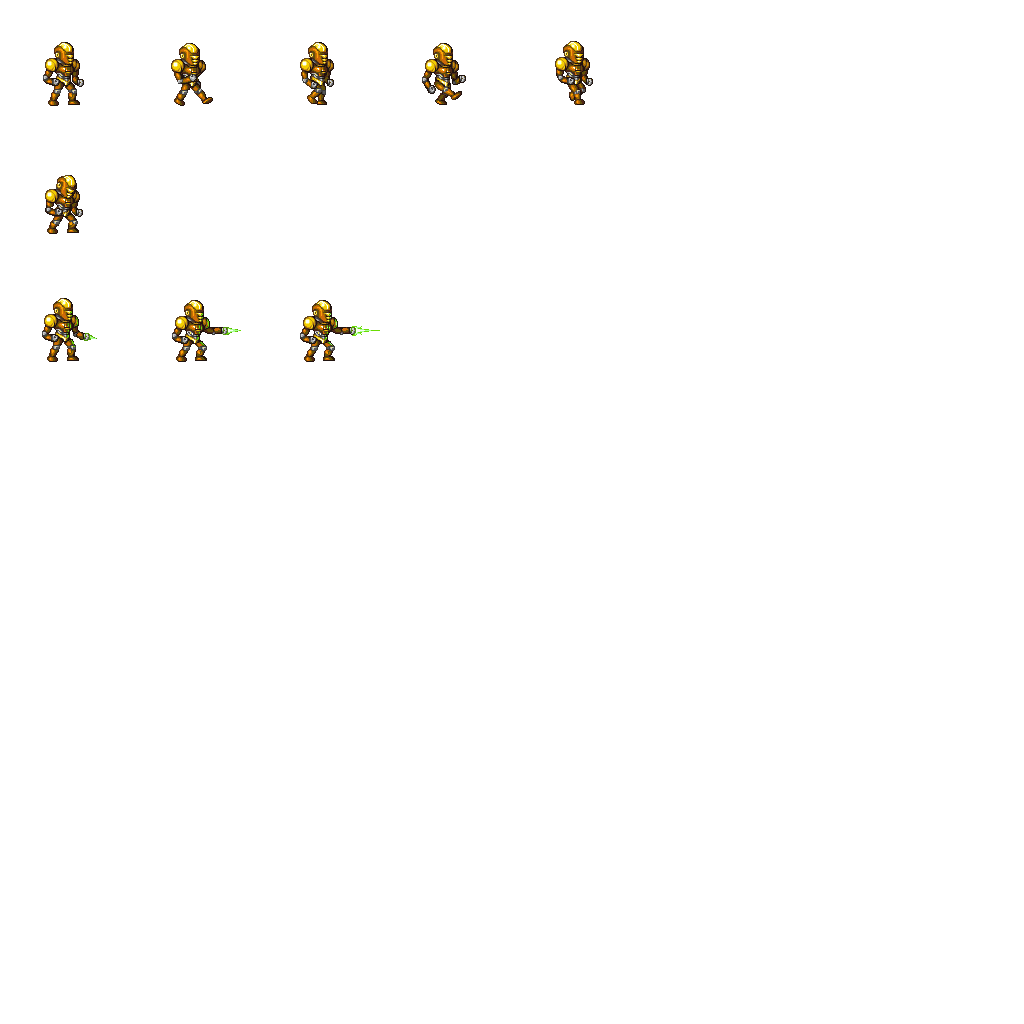
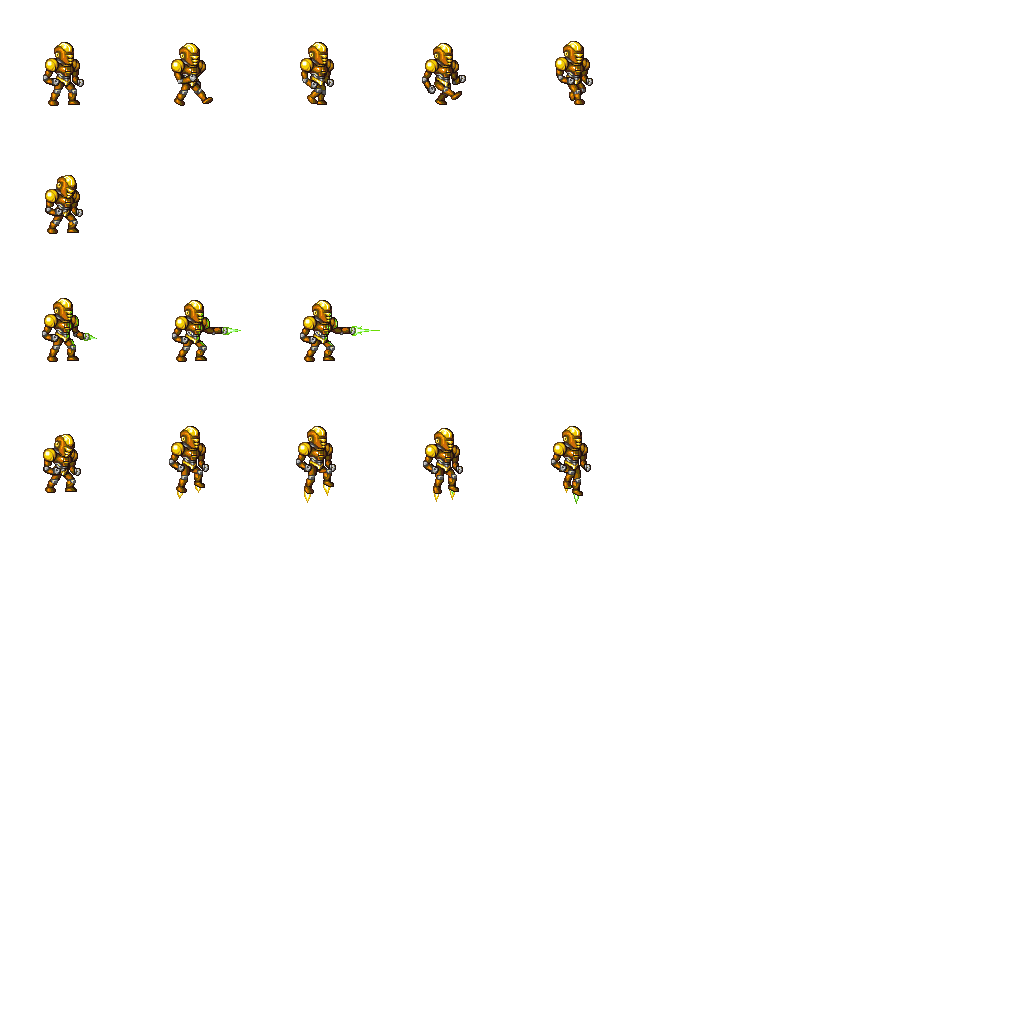
player jump animation

diff --git a/src/game/Player.cpp b/src/game/Player.cpp
@@ -48,8 +48,17 @@ Player::Player()
 	if (!image.LoadFromFile("images/xeon.png"))
 		printf("failed to load images/xeon.png\n");
 	this->setImage(image);
+	
+	width = 24;
+	height = 48;
+	xOrigin = width/2;
+	yOrigin = height;
+	setDrawOffset(64, 104);
+	setFrameSize(128, 128);
+	
 	//sprite.SetCenter(SPRITE_CENTER_X - xOrigin, SPRITE_CENTER_Y - yOrigin);
 	
+	/*
 	Animation* walkAnimation = new Animation(this->sprite);
 	walkAnimation->toDefaultXeonWalkAnimation();
 	this->animations["walk"] = walkAnimation;
@@ -61,6 +70,26 @@ Player::Player()
 	Animation* idleAnimation = new Animation(this->sprite);
 	idleAnimation->toDefaultXeonIdleAnimation();
 	this->animations["idle"] = idleAnimation;
+	*/
+	
+	Animation * tmp;
+	
+	tmp = addAnimation("walk");
+	tmp->addFrame(0, .2f);
+	tmp->addFrame(1, .2f);
+	tmp->addFrame(2, .2f);
+	tmp->addFrame(3, .2f);
+	tmp->setLoop(true);
+	
+	tmp = addAnimation("jump");
+	tmp->addFrame(24, 0.1f);
+	tmp->addFrame(25, 0.1f);
+	tmp->addFrame(26, 0.1f);
+	tmp->addFrame(27, 0.1f);
+	tmp->addFrame(28, 0.1f);
+	
+	tmp = addAnimation("idle");
+	tmp->addFrame(0, 0.2f);
 
 	init();
 }
@@ -78,11 +107,7 @@ void Player::init() {
 	pos_x = 64.0f;
 	pos_y = 0.0f;
 	facing_direction = FACING_RIGHT;
-	width = 24;
-	height = 48;
-	xOrigin = width/2;
-	yOrigin = height;
-	setDrawOffset(64, 104);
+
 	speed_x = 0.0f;
 	speed_y = 0.0f;
 

diff --git a/src/game/Animation.cpp b/src/game/Animation.cpp
@@ -105,13 +105,13 @@ void Animation::addFrame(int num, float duration) {
 	int w = img->GetWidth();
 	int h = img->GetHeight();
 	
-	std::cout << w << "x" << h << "\n";
+	//std::cout << w << "x" << h << "\n";
 	
 	int x_tiles = w / frame_w;
 	int y_tiles = h / frame_h;
-	std::cout << frame_w << "x" << frame_h << "\n";
-	std::cout << x_tiles << "x" << y_tiles << "\n";
-	std::cout << num << "\n";
+	//std::cout << frame_w << "x" << frame_h << "\n";
+	//std::cout << x_tiles << "x" << y_tiles << "\n";
+	//std::cout << num << "\n";
 	
 	int column = num % y_tiles;
 	int row = (num - column) / x_tiles;
@@ -119,11 +119,16 @@ void Animation::addFrame(int num, float duration) {
 	Frame frame;
 	frame.rect = sf::IntRect(column * frame_w, row * frame_h, column * frame_w + frame_w, row * frame_h + frame_h);
 	frame.timeToNextFrame = duration;
+	frame.number = num;
 	frames.push_back(frame);	
 }
 
 void Animation::setLoop(bool loop) {
 	doLoop = loop;
+}
+
+void Animation::reset() {
+	frameIterator = 0;
 }
 
 bool Animation::getIsFinished()
@@ -165,6 +170,7 @@ void Animation::update()
 
 void Animation::updateFrame()
 {
+	cout << frameIterator << ":" << frames.at(frameIterator).number << " ";
 	if(!this->frames.empty())
 		this->sprite.SetSubRect(frames.at(frameIterator).rect );
 	else

diff --git a/src/game/AnimatedActor.cpp b/src/game/AnimatedActor.cpp
@@ -24,10 +24,24 @@ void AnimatedActor::init() {
 
 void AnimatedActor::setImage(sf::Image & image) 
 {
+	setFrameSize(0, 0);
 	this->sprite.SetImage(image);
 	this->currentAnimation = NULL;
 }
 
+Animation * AnimatedActor::addAnimation(std::string name) {
+	if(frame_w == 0 || frame_h == 0) {
+		cout << "ERROR: Must set frame size before adding animation.\n";
+	}
+	Animation* a = new Animation(this->sprite);
+	this->animations[name] = a;
+	a->setFrameSize(frame_w, frame_h);
+}
+
+void AnimatedActor::setFrameSize(int fw, int fh) {
+	frame_w = fw;
+	frame_h = fh;
+}
 
 void AnimatedActor::draw()
 {
@@ -46,12 +60,15 @@ void AnimatedActor::draw()
 	Actor::draw();
 }
 
-void AnimatedActor::setCurrentAnimation(std::string name)
+void AnimatedActor::setCurrentAnimation(std::string name, bool reset)
 {
 	if(this->currentAnimation != this->animations[name])
 	{
 		this->currentAnimation = this->animations[name];
 		this->currentAnimation->updateFrame();
+		if(reset)
+			this->currentAnimation->reset();
+		
 		cout << name << endl;
 	}
 }

diff --git a/src/game/AnimatedActor.h b/src/game/AnimatedActor.h
@@ -14,14 +14,16 @@ public:
 	virtual ~AnimatedActor();
 	void collide(Actor*); 	///< implemented empty for testing;
 	void draw();	///< update Animation
-	void setCurrentAnimation(std::string name); ///< Set's the current Animation for the given Name
-
+	void setCurrentAnimation(std::string name, bool reset = true); ///< Set's the current Animation for the given Name
+	Animation * addAnimation(std::string name);
+	void setFrameSize(int fw, int fh);
 protected:
 	void flipDirection();
 	int facing_direction;
 	Animation *currentAnimation; ///< TODO use a queue
 	std::map<std::string, Animation*> animations; ///< stores all available Animations for this Actor
-
+	int frame_h, frame_w;
+	
 private:
 	void init();
 };

diff --git a/src/game/Animation.h b/src/game/Animation.h
@@ -6,6 +6,7 @@
 ///
 struct Frame
 {
+	int number;
 	sf::IntRect rect;
 	float timeToNextFrame;
 };
@@ -22,6 +23,7 @@ public:
 	void setFrameSize(int fw, int fh);
 	void addFrame(int num, float duration);
 	void setLoop(bool loop);
+	void reset();
 
 	/// Added for testing purposes.
 	/// TODO read animations from a config file.
